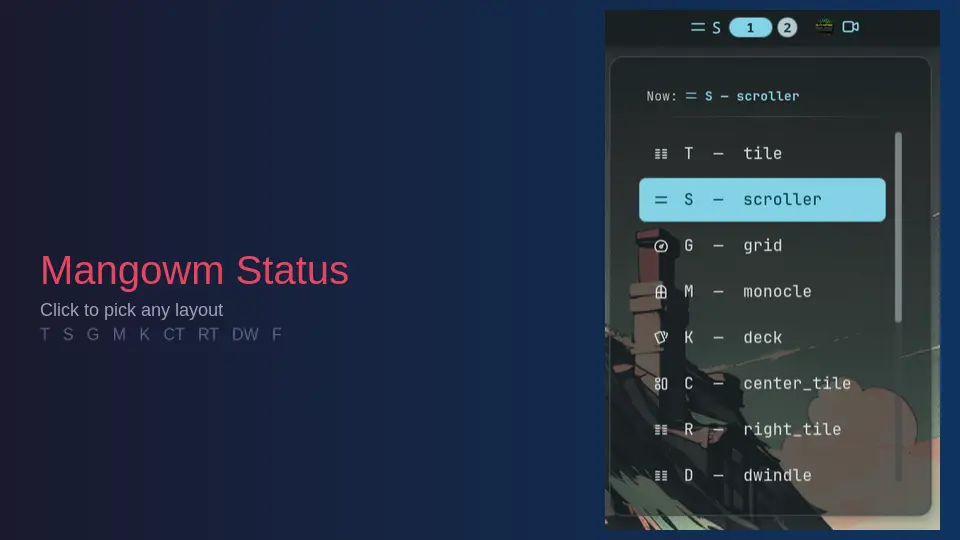
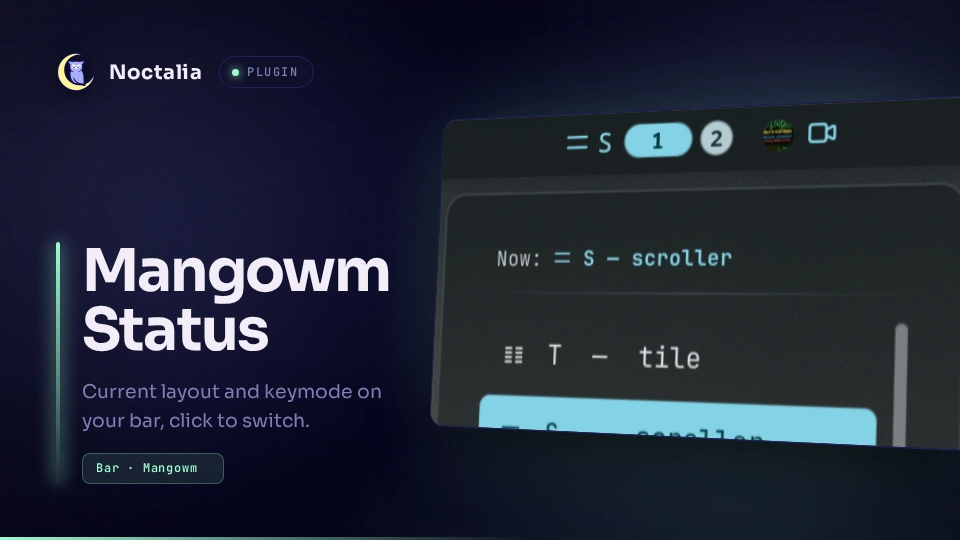
fix: address review feedback
- panel.luau: forward-declare doRender so setLayout's failure path
  can re-render instead of calling a nil global
- widget.luau: lower polling fallback to 5s (watch streams already
  deliver live updates; 1s poll spawned a subprocess every second)
- plugin.toml: icon 'grid' -> 'grid-4x4' (resolvable Tabler glyph)
- thumbnail.webp: regenerated with the official thumbnail generator

diff --git a/mangowm-status/README.md b/mangowm-status/README.md
@@ -1,6 +1,6 @@
 # Mangowm Status
 
-Shows the current Mangowm tiling layout and keymode on your bar. Click to open a picker and switch layouts instantly.
+A [Noctalia](https://noctalia.dev) v5 bar widget that displays the current [Mangowm](https://github.com/mangowm/mangowm) tiling layout and keymode — click to open a layout picker, scroll to cycle layouts.
 
 ![Thumbnail](thumbnail.webp)
 
@@ -11,36 +11,73 @@ Shows the current Mangowm tiling layout and keymode on your bar. Click to open a
 | ID | `x0d7x/mangowm-status` |
 | Entries | Bar widget: `status`; panel: `layout-picker` |
 
+## Screenshots
+
+| Widget (bar) | Layout picker panel |
+| --- | --- |
+| ![Widget showing Tile layout](screenshots/widget.webp) | ![Layout picker with all layouts](screenshots/panel.webp) |
+
+## Features
+
+- **Live layout badge** — shows the active layout glyph and letter code on your bar
+- **Keymode indicator** — displays non-default keymodes (resize, move, etc.) beside the layout
+- **Click to pick** — left-click opens a scrollable panel of all 14 supported layouts
+- **Scroll to cycle** — horizontal scroll cycles through core layouts
+- **Live updates** — uses `mmsg watch` streams, no polling
+- **14 layouts** — all Mangowm tiling layouts supported
+
+## Install
+
+```sh
+noctalia plugin install x0d7x/mangowm-status
+```
+
+Or clone manually into `~/.local/share/noctalia/plugins/mangowm-status/`:
+
+```sh
+git clone https://github.com/x0d7x/mangowm-status.git \
+  ~/.local/share/noctalia/plugins/mangowm-status
+```
+
 ## Requirements
 
 - Noctalia v5
-- [`mmsg`](https://github.com/mangowm/mango) — Mangowm's IPC CLI tool (must be on `PATH`)
+- [`mmsg`](https://github.com/mangowm/mango) — Mangowm's IPC CLI (install with `cargo install mmsg` or grab a release from the [releases page](https://github.com/mangowm/mango/releases)); must be on `PATH`
+
+## Requirements
+
+- Noctalia v5
+- [`mmsg`](https://github.com/mangowm/mango) — Mangowm's IPC CLI (install with `cargo install mmsg` or grab a release from the [releases page](https://github.com/mangowm/mango/releases)); must be on `PATH`
 
 ## Usage
 
 ### Bar widget
 
-Add the **Mangowm Status** widget from the Add-widget picker in your bar settings, or configure it by hand with:
+Add the **Mangowm Status** widget from the Add-widget picker in your bar settings, or configure it by hand:
 
 ```toml
 [widget.mangowm-status]
 type = "x0d7x/mangowm-status:status"
 ```
 
-The widget displays the current layout's icon and letter code. When the active keymode is not `default`, the keymode name is shown beside the layout code.
+The widget shows the current layout's icon and letter code. When the active keymode is not `default`, the keymode name appears beside the layout code.
 
-- **Left-click** the widget → opens the **Layout Picker** panel. Click any layout to switch immediately.
-- **Horizontal scroll** over the widget → cycles through the core layouts (T → S → G → …).
+![Widget screenshot](screenshots/widget.webp)
+
+- **Left-click** → opens the **Layout Picker** panel. Click any layout to switch.
+- **Horizontal scroll** → cycles through core layouts (T → S → G → …).
 
 ### Layout picker panel
 
-Open with:
+Open programmatically with:
 
 ```sh
 noctalia msg panel-toggle x0d7x/mangowm-status:layout-picker
 ```
 
-A scrollable list of all 14 supported layouts. The current layout is highlighted. Click any other layout to switch — the panel closes automatically.
+A scrollable list of all 14 layouts. The current layout is highlighted. Click any other layout to switch — the panel closes automatically.
+
+![Panel screenshot](screenshots/panel.webp)
 
 ## Settings
 
@@ -61,7 +98,7 @@ noctalia msg plugin x0d7x/mangowm-status:status focused refresh
 # Get current status (logged as JSON)
 noctalia msg plugin x0d7x/mangowm-status:status focused get-status
 
-# Set layout by code (T, S, G, M, K, CT, RT, DW, F, VS, VT, VG, VK, VF)
+# Set layout by code
 noctalia msg plugin x0d7x/mangowm-status:status focused set-layout S
 ```
 
@@ -87,8 +124,8 @@ noctalia msg plugin x0d7x/mangowm-status:status focused set-layout S
 ## Notes
 
 - This plugin spawns `mmsg` subprocesses to query and change the compositor state. `mmsg` must be installed and on `PATH`.
-- Layout changes use `mmsg dispatch setlayout,<name>`.
-- The widget keeps two long-running `mmsg watch` streams (keymode + all-tags) for live updates, with a 1-second polling fallback.
+- Layout changes use `mmsg dispatch setlayout,<name>` (lowercase layout name, not the short code).
+- The widget keeps two long-running `mmsg watch` streams (keymode + all-tags) for live updates, with a low-rate (5 s) polling fallback.
 - The panel entry fetches tag data on open and does not keep a persistent connection.
 
 ## License
